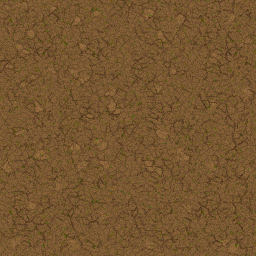
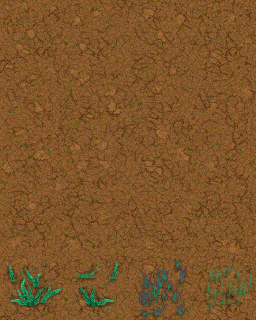
Additional tiles

diff --git a/EDGEngine/Source.cpp b/EDGEngine/Source.cpp
@@ -34,6 +34,7 @@ glm::mat4 transform;
 Shader * ourShader;
 
 Batcher * batch;
+Batcher* batch2;
 
 ECamera* camera;
 
@@ -41,6 +42,8 @@ short tilemap[100][100];
 int available_tile[20];
 int final_available_tile[20];
 int tile_array_index = 0;
+
+bool draw_tile_info = false;
 
 int main()
 {
@@ -55,32 +58,48 @@ int main()
 	{
 		if (tilemap[j][i] == -1)
 		{
-			for (int k = 0; k <= 16; k++)
+			//refill available tile
+			for (int k = 0; k < 16; k++)
 			{
 				available_tile[k]=k;
 			}
 
-			if (j >= 0)		{ available_tile[tilemap[j - 1][i]] = -1; }
-			if (j < 100)	{ available_tile[tilemap[j + 1][i]] = -1; }
 
-			if (i >= 0)		{ available_tile[tilemap[j][i-1]] = -1; }
-			if (i < 100)	{ available_tile[tilemap[j][i+1]] = -1; }
+			//exclude potencial duplicate
+			for (int b=-1; b<=1; b++)
+			for (int a=-1; a<=1; a++)
+			if (
+				(
+					(a!=0)||(b!=0)
+				)
+				&&(j>=0)
+				&& (j<100)
+				&& (i>=0)
+				&& (i<100))
+			{
+				int target_tile = tilemap[j + b][i + a];
+
+				if (target_tile >= 0) { available_tile[target_tile] = -1; }
+			}
+
 
 			tile_array_index = 0;
-			for (int k = 0; k <= 16; k++)
+			for (int k = 0; k < 16; k++)
 			if (available_tile[k]>=0)
 			{
 				final_available_tile[tile_array_index] = available_tile[k];
 				tile_array_index++;
 			}
 
-			int selected_tile = final_available_tile[rand() % 17];
+			int selected_tile = final_available_tile[rand() % tile_array_index];
 
 			//available_tile._Make_iter;
 
 			//tilemap[j][i] = choosen_tile._Getcont;
 
+			if (rand() % 25 != 0) { selected_tile += 4; } else { selected_tile =rand()%4;}
 			tilemap[j][i] = selected_tile;
+			
 			
 			//std::cout << "tile: " << selected_tile << std::endl;
 		}
@@ -164,7 +183,7 @@ int main()
 	glTexParameteri(GL_TEXTURE_2D, GL_TEXTURE_MIN_FILTER, GL_LINEAR);
 	glTexParameteri(GL_TEXTURE_2D, GL_TEXTURE_MAG_FILTER, GL_LINEAR);
 	// load image, create texture and generate mipmaps
-	data2 = stbi_load("data/tile02.png", &width, &height, &nrChannels, STBI_rgb_alpha);
+	data2 = stbi_load("data/tile_info.png", &width, &height, &nrChannels, STBI_rgb_alpha);
 
 	if (data2)
 	{
@@ -182,7 +201,7 @@ int main()
 	// tell opengl for each sampler to which texture unit it belongs to (only has to be done once)
 	// -------------------------------------------------------------------------------------------
 	ourShader->use();
-	ourShader->setInt("texture1", 0);
+
 	//ourShader->setInt("texture2", 1);
 	glfwSwapInterval(0);
 	
@@ -194,6 +213,7 @@ int main()
 	glBindTexture(GL_TEXTURE_2D, texture1);
 
 	batch = new Batcher();
+	batch2 = new Batcher();
 	camera = new ECamera();
 
 	camera->x = 0.0f;
@@ -204,15 +224,22 @@ int main()
 	for (int i = 0; i < 30; i++)
 	for (int j = 0; j < 30; j++)
 	{
-		batch->draw_rect_without_color(0.1f * j, 0.1f * i, 0.05f, 0.05f, rand() % 4, rand() % 4);
+		int tile_y = (int)(tilemap[j][i] / 4);
+		int tile_x = tilemap[j][i] - tile_y * 4;
+
+
+		batch->draw_rect_without_color(0.1f * j, 0.1f * i, 0.05f, 0.05f, tile_x, tile_y);
+		batch2->draw_rect_without_color(0.1f* j, 0.1f* i, 0.05f, 0.05f, tile_x, tile_y);
 	}
 
 	for (int i = 0; i < 900; i++)
 	{
 		batch->fill_indices();
+		batch2->fill_indices();
 	}
 
 	batch->init();
+	batch2->init();
 
 	while (!glfwWindowShouldClose(window))
 	{
@@ -220,7 +247,7 @@ int main()
 		transform = glm::scale(transform, glm::vec3((SCR_HEIGHT * 1.0f) / SCR_WIDTH, 1, 1));
 		// input
 		// -----
-		
+
 
 		// render
 		// ------
@@ -230,7 +257,7 @@ int main()
 		// bind textures on corresponding texture units
 		//if (rand() % 10 <= 5)
 		//{
-			
+
 		//}
 		//else
 		//{
@@ -244,9 +271,9 @@ int main()
 
 		// create transformations
 		transform = glm::mat4(1.0f); // make sure to initialize matrix to identity matrix first
-		
+
 		transform = glm::translate(transform, glm::vec3(camera->x, camera->y, 0.0f));
-		transform = glm::scale(transform,glm::vec3((SCR_HEIGHT*1.0f)/SCR_WIDTH*camera->zoom,camera->zoom,1));
+		transform = glm::scale(transform, glm::vec3((SCR_HEIGHT * 1.0f) / SCR_WIDTH * camera->zoom, camera->zoom, 1));
 
 
 		//transform = glm::rotate(transform, (float)glfwGetTime(), glm::vec3(0.0f, 0.0f, 1.0f));
@@ -258,14 +285,28 @@ int main()
 
 		// render container
 
-		
+
 		/*
 		glBindVertexArray(VAO);
 		glDrawElements(GL_TRIANGLES, 6, GL_UNSIGNED_INT, 0);
 		*/
 
-		batch->draw_call();
+		if (!draw_tile_info)
+		{
+			glActiveTexture(GL_TEXTURE0);
+			glBindTexture(GL_TEXTURE_2D, texture1);
+			ourShader->setInt("texture1", 0);
+		}
+		else
+		{
 
+			glActiveTexture(GL_TEXTURE1);
+			glBindTexture(GL_TEXTURE_2D, texture2);
+			ourShader->setInt("texture1", 1);
+		}
+
+		batch->draw_call();
+		
 		// glfw: swap buffers and poll IO events (keys pressed/released, mouse moved etc.)
 		// -------------------------------------------------------------------------------
 		glfwSwapBuffers(window);
@@ -300,13 +341,15 @@ void processInput(GLFWwindow* window)
 
 	if (glfwGetKey(window, GLFW_KEY_HOME) == GLFW_PRESS) { camera->zoom = 1.0f; }
 
+	draw_tile_info = false;
+	if (glfwGetKey(window, GLFW_KEY_F) == GLFW_PRESS) { draw_tile_info = true; }
 
 }
 
 // glfw: whenever the window size changed (by OS or user resize) this callback function executes
 // ---------------------------------------------------------------------------------------------
 void framebuffer_size_callback(GLFWwindow * window, int width, int height)
-{
+{//
 	// make sure the viewport matches the new window dimensions; note that width and 
 	// height will be significantly larger than specified on retina displays.
 	glViewport(0, 0, width, height);
@@ -321,17 +364,17 @@ void scroll_callback(GLFWwindow* window, double xoffset, double yoffset)
 {
 	if (yoffset>0)
 	{
-		camera->zoom*=1.1f;
+		camera->zoom*=2.0f;
 
-		camera->x *= 1.1f;
-		camera->y *= 1.1f;
+		camera->x *= 2.0f;
+		camera->y *= 2.0f;
 	}
 
 	if (yoffset < 0)
 	{
-		camera->zoom *= 0.9f;
+		camera->zoom *= 0.5f;
 
-		camera->x *= 0.9f;
-		camera->y *= 0.9f;
+		camera->x *= 0.5f;
+		camera->y *= 0.5f;
 	}
 }

diff --git a/EDGEngine/Batcher.cpp b/EDGEngine/Batcher.cpp
@@ -124,7 +124,7 @@ void Batcher::draw_rect_without_color(float _x, float _y, float _w, float _h, in
 	vertices[id + 2] = 0;
 
 	vertices[id + 3] = 0.25f + 0.25f * _tx;
-	vertices[id + 4] = 0.25f + 0.25f * _ty;
+	vertices[id + 4] = 0.20f + 0.20f * _ty;
 
 
 
@@ -136,7 +136,7 @@ void Batcher::draw_rect_without_color(float _x, float _y, float _w, float _h, in
 	vertices[id + 7] = 0;
 
 	vertices[id + 8] = 0.25f + 0.25f * _tx;
-	vertices[id + 9] = 0.0f + 0.25f * _ty;
+	vertices[id + 9] = 0.0f + 0.20f * _ty;
 
 
 
@@ -148,7 +148,7 @@ void Batcher::draw_rect_without_color(float _x, float _y, float _w, float _h, in
 	vertices[id + 12] = 0;
 
 	vertices[id + 13] = 0.0f + 0.25f * _tx;
-	vertices[id + 14] = 0.0f + 0.25f * _ty;
+	vertices[id + 14] = 0.0f + 0.20f * _ty;
 
 
 
@@ -160,7 +160,7 @@ void Batcher::draw_rect_without_color(float _x, float _y, float _w, float _h, in
 	vertices[id + 17] = 0;
 
 	vertices[id + 18] = 0.0f + 0.25f * _tx;
-	vertices[id + 19] = 0.25f + 0.25f * _ty;
+	vertices[id + 19] = 0.20f + 0.20f * _ty;
 
 	id += 20;
 }
